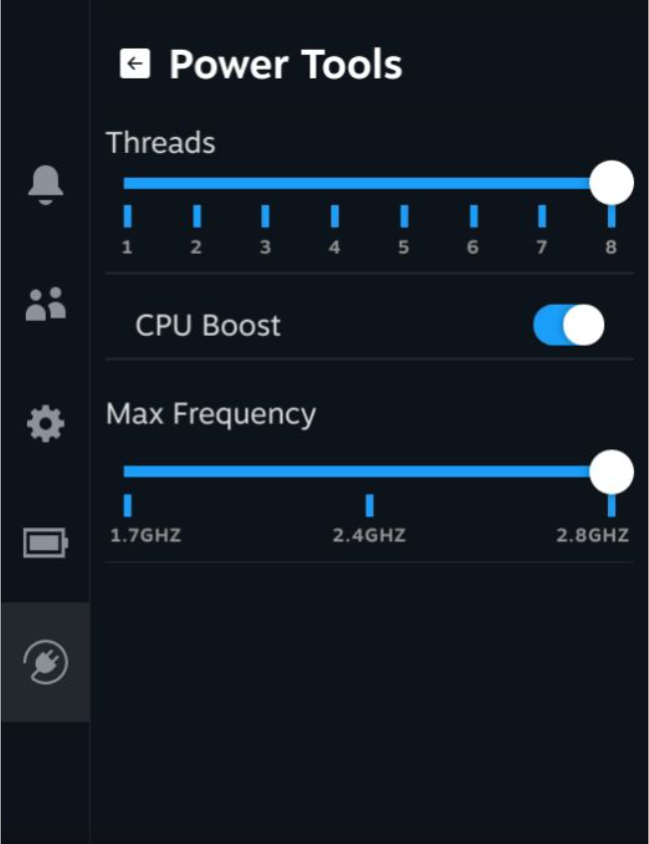
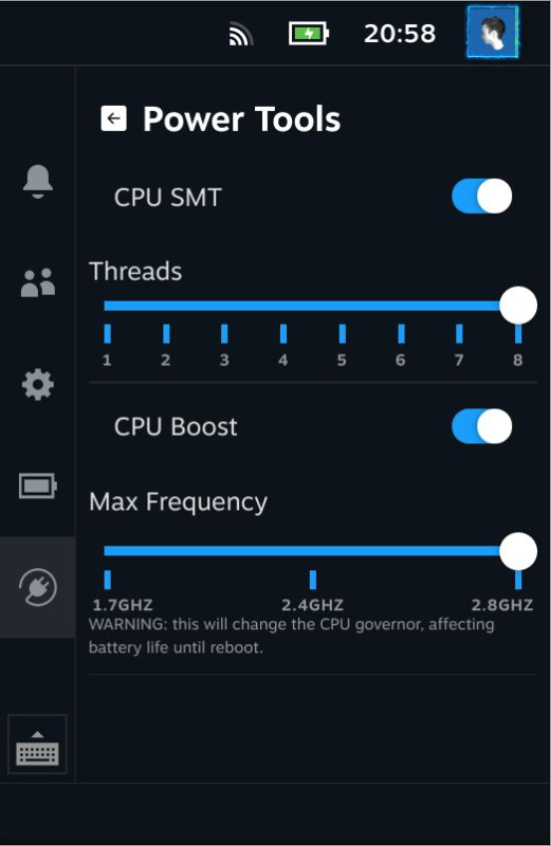
Add SMT toggle

diff --git a/main_view.html b/main_view.html
@@ -6,12 +6,16 @@
         <script src="/static/library.js"></script>
         <script>
             // Python functions
-            function setCPUs(value) {
-                return call_plugin_method("set_cpus", {"count":value});
+            function setCPUs(value, smt) {
+                return call_plugin_method("set_cpus", {"count":value, "smt": smt});
             }
             
             function getCPUs() {
                 return call_plugin_method("get_cpus", {});
+            }
+
+            function getSMT() {
+                return call_plugin_method("get_smt", {});
             }
             
             function setCPUBoost(value) {
@@ -35,13 +39,14 @@
             async function onReady() {
                 let boostToggle = document.getElementById("boostToggle");
                 setToggleState(boostToggle, await getCPUBoost());
+                setToggleState(document.getElementById("smtToggle"), await getSMT());
                 selectNotch("cpuThreadsNotch", await getCPUs() - 1, 8);
                 selectNotch("frequencyNotch", await getMaxBoost(), 3);
             }
 
             async function setCPUNotch(index) {
                 const ROOT_ID = "cpuThreadsNotch";
-                await setCPUs(index);
+                await setCPUs(index, getToggleState(document.getElementById("smtToggle")));
                 selectNotch(ROOT_ID, await getCPUs() - 1, 8);
             }
             
@@ -64,7 +69,15 @@
                 let toggle = document.getElementById("boostToggle");
                 let isActive = getToggleState(toggle);
                 await setCPUBoost(!isActive);
-                setToggleState(toggle, await getCPUBoost());
+                setToggleState(toggle, !isActive);
+            }
+
+            async function toggleCPUSMT() {
+                let toggle = document.getElementById("smtToggle");
+                let isActive = getToggleState(toggle);
+                await setCPUs(await getCPUs(), !isActive);
+                setToggleState(toggle, !isActive);
+                selectNotch("cpuThreadsNotch", await getCPUs() - 1, 8);
             }
 
             async function setBoostNotch(index) {
@@ -93,6 +106,26 @@
         <style type="text/css" media="screen"></style>
     </head>
     <body onload="onReady()">
+        <!-- SMT toggle switch, roughly copied from https://github.com/SteamDeckHomebrew/ExtraSettingsPlugin/blob/main/main_view.html -->
+        <div class="quickaccessmenu_TabGroupPanel_1QO7b Panel Focusable">
+            <div class="quickaccesscontrols_PanelSectionRow_26R5w">
+                <div class="quickaccesscontrols_PanelSectionRow_26R5w">
+                    <div class="gamepaddialog_Field_eKmEX gamepaddialog_WithFirstRow_2bDqk gamepaddialog_ExtraPaddingOnChildrenBelow_3nLNL gamepaddialog_StandardPadding_xIITX gamepaddialog_HighlightOnFocus_2HFrm Panel Focusable" style="--indent-level:0;">
+                        <div class="gamepaddialog_FieldLabelRow_2VcTl">
+                            <div class="gamepaddialog_FieldLabel_3jMlJ">
+                                CPU SMT
+                            </div>
+                            <div class="gamepaddialog_FieldChildren_2rhav">
+                                <div id="smtToggle" tabindex="0" class="gamepaddialog_Toggle_9Ql-o Focusable" onclick="toggleCPUSMT()">
+                                    <div class="gamepaddialog_ToggleRail_2bl0i"></div>
+                                    <div class="gamepaddialog_ToggleSwitch_1PQpp"></div>
+                                </div>
+                            </div>
+                        </div>
+                    </div>
+                </div>
+            </div>
+        </div>
         <!-- CPUs selector -->
         <div class="gamepaddialog_Field_eKmEX gamepaddialog_WithFirstRow_2bDqk gamepaddialog_WithChildrenBelow_37xzV gamepaddialog_InlineWrapShiftsChildrenBelow_3LCXh gamepaddialog_WithBottomSeparator_3YKpU gamepaddialog_ChildrenWidthFixed_ljcbL gamepaddialog_ExtraPaddingOnChildrenBelow_3nLNL gamepaddialog_StandardPadding_xIITX gamepaddialog_HighlightOnFocus_2HFrm Panel Focusable">
             <div class="gamepaddialog_FieldLabelRow_2VcTl">
@@ -142,11 +175,11 @@
             </div>
         </div>
 
-        <!-- Toggle switch, roughly copied from https://github.com/SteamDeckHomebrew/ExtraSettingsPlugin/blob/main/main_view.html -->
+        <!-- CPU Boost toggle switch, roughly copied from https://github.com/SteamDeckHomebrew/ExtraSettingsPlugin/blob/main/main_view.html -->
         <div class="quickaccessmenu_TabGroupPanel_1QO7b Panel Focusable">
             <div class="quickaccesscontrols_PanelSectionRow_26R5w">
                 <div class="quickaccesscontrols_PanelSectionRow_26R5w">
-                    <div class="gamepaddialog_Field_eKmEX gamepaddialog_WithFirstRow_2bDqk gamepaddialog_ExtraPaddingOnChildrenBelow_3nLNL gamepaddialog_StandardPadding_xIITX gamepaddialog_HighlightOnFocus_2HFrm gamepaddialog_WithBottomSeparator_3YKpU Panel Focusable" style="--indent-level:0;">
+                    <div class="gamepaddialog_Field_eKmEX gamepaddialog_WithFirstRow_2bDqk gamepaddialog_ExtraPaddingOnChildrenBelow_3nLNL gamepaddialog_StandardPadding_xIITX gamepaddialog_HighlightOnFocus_2HFrm Panel Focusable" style="--indent-level:0;">
                         <div class="gamepaddialog_FieldLabelRow_2VcTl">
                             <div class="gamepaddialog_FieldLabel_3jMlJ">
                                 CPU Boost
@@ -154,7 +187,8 @@
                             <div class="gamepaddialog_FieldChildren_2rhav">
                                 <div id="boostToggle" tabindex="0" class="gamepaddialog_Toggle_9Ql-o Focusable" onclick="toggleCPUBoost()">
                                     <div class="gamepaddialog_ToggleRail_2bl0i"></div>
-                                <div class="gamepaddialog_ToggleSwitch_1PQpp"></div>
+                                    <div class="gamepaddialog_ToggleSwitch_1PQpp"></div>
+                                </div>
                             </div>
                         </div>
                     </div>
@@ -189,6 +223,9 @@
                     </div>
                 </div>
             </div>
+            </div>
+            <div style="font-size:x-small;">
+            WARNING: this will change the CPU governor, affecting battery life until reboot.
             </div>
         </div>
     </body>

diff --git a/main.py b/main.py
@@ -5,26 +5,34 @@ class Plugin:
     SCALING_FREQUENCIES = [1700000, 2400000, 2800000]
     
     # call from main_view.html with setCPUs(onclick_event) or call_plugin_method("set_cpus", count)
-    async def set_cpus(self, count) -> int:
-        print("Setting CPUs")
-        with open("/home/deck/PowerTools.log", "a") as f:
-            f.write(f"Setting {count} CPUs to active\n")
-            f.flush()
+    async def set_cpus(self, count, smt=True) -> int:
+        # print("Setting CPUs")
+        if smt:
             count = min(int(count), self.CPU_COUNT)
             # never touch cpu0, since it's special
             for cpu in range(1, count):
-                f.write(f"Setting CPU {cpu} to online\n")
                 enable_cpu(cpu)
             for cpu in range(count, self.CPU_COUNT):
-                f.write(f"Setting CPU {cpu} to offline\n")
                 disable_cpu(cpu)
-        return self.CPU_COUNT
+            return self.CPU_COUNT
+        else:
+            count = min(int(count), self.CPU_COUNT / 2)
+            for cpu in range(1, self.CPU_COUNT, 2):
+                disable_cpu(cpu)
+            for cpu in range(2, self.CPU_COUNT, 2):
+                if (cpu / 2) + 1 > count:
+                    disable_cpu(cpu)
+                else:
+                    enable_cpu(cpu)
     
     async def get_cpus(self) -> int:
         online_count = 1 # cpu0 is always online
         for cpu in range(1, self.CPU_COUNT):
             online_count += int(status_cpu(cpu))
         return online_count
+
+    async def get_smt(self) -> bool:
+        return status_cpu(1) == status_cpu(2) and status_cpu(3) == status_cpu(4)
     
     async def set_boost(self, enabled: bool) -> bool:
         write_to_sys("/sys/devices/system/cpu/cpufreq/boost", int(enabled))
@@ -40,6 +48,8 @@ class Plugin:
         updated = 0
         for cpu in range(0, self.CPU_COUNT):
             if cpu == 0 or status_cpu(cpu):
+                if read_scaling_governor_cpu(cpu) != "userspace":
+                    write_scaling_governor_cpu(cpu, "userspace")
                 path = cpu_freq_scaling_path(cpu)
                 write_to_sys(path, selected_freq)
                 updated += 1
@@ -47,13 +57,14 @@ class Plugin:
 
     async def get_max_boost(self) -> int:
         path = cpu_freq_scaling_path(0)
-        freq = int(read_from_sys(path, amount=-1).strip())
+        freq_maybe = read_from_sys(path, amount=-1).strip()
+        if freq_maybe is None or len(freq_maybe) == 0 or freq_maybe == "<unsupported>":
+            return len(self.SCALING_FREQUENCIES) - 1
+        freq = int(freq_maybe)
         return self.SCALING_FREQUENCIES.index(freq)
 
     # Asyncio-compatible long-running code, executed in a task when the plugin is loaded
     async def _main(self):
-        with open("/home/deck/PowerTools.log", "w") as f:
-            f.write(f"Main loop\n")
         pass
             
 
@@ -64,6 +75,9 @@ def cpu_online_path(cpu_number: int) -> str:
 
 def cpu_freq_scaling_path(cpu_number: int) -> str:
     return f"/sys/devices/system/cpu/cpu{cpu_number}/cpufreq/scaling_setspeed"
+
+def cpu_governor_scaling_path(cpu_number: int) -> str:
+    return f"/sys/devices/system/cpu/cpu{cpu_number}/cpufreq/scaling_governor"
     
 def write_to_sys(path, value: int):
     with open(path, mode="w") as f:
@@ -84,3 +98,12 @@ def disable_cpu(cpu_number: int):
 def status_cpu(cpu_number: int) -> bool:
     filepath = cpu_online_path(cpu_number)
     return read_from_sys(filepath) == "1"
+
+def read_scaling_governor_cpu(cpu_number: int) -> str:
+    filepath = cpu_governor_scaling_path(cpu_number)
+    return read_from_sys(filepath, amount=-1).trim()
+
+def write_scaling_governor_cpu(cpu_number: int, governor: str):
+    filepath = cpu_governor_scaling_path(cpu_number)
+    with open(filepath, mode="w") as f:
+        f.write(governor)
